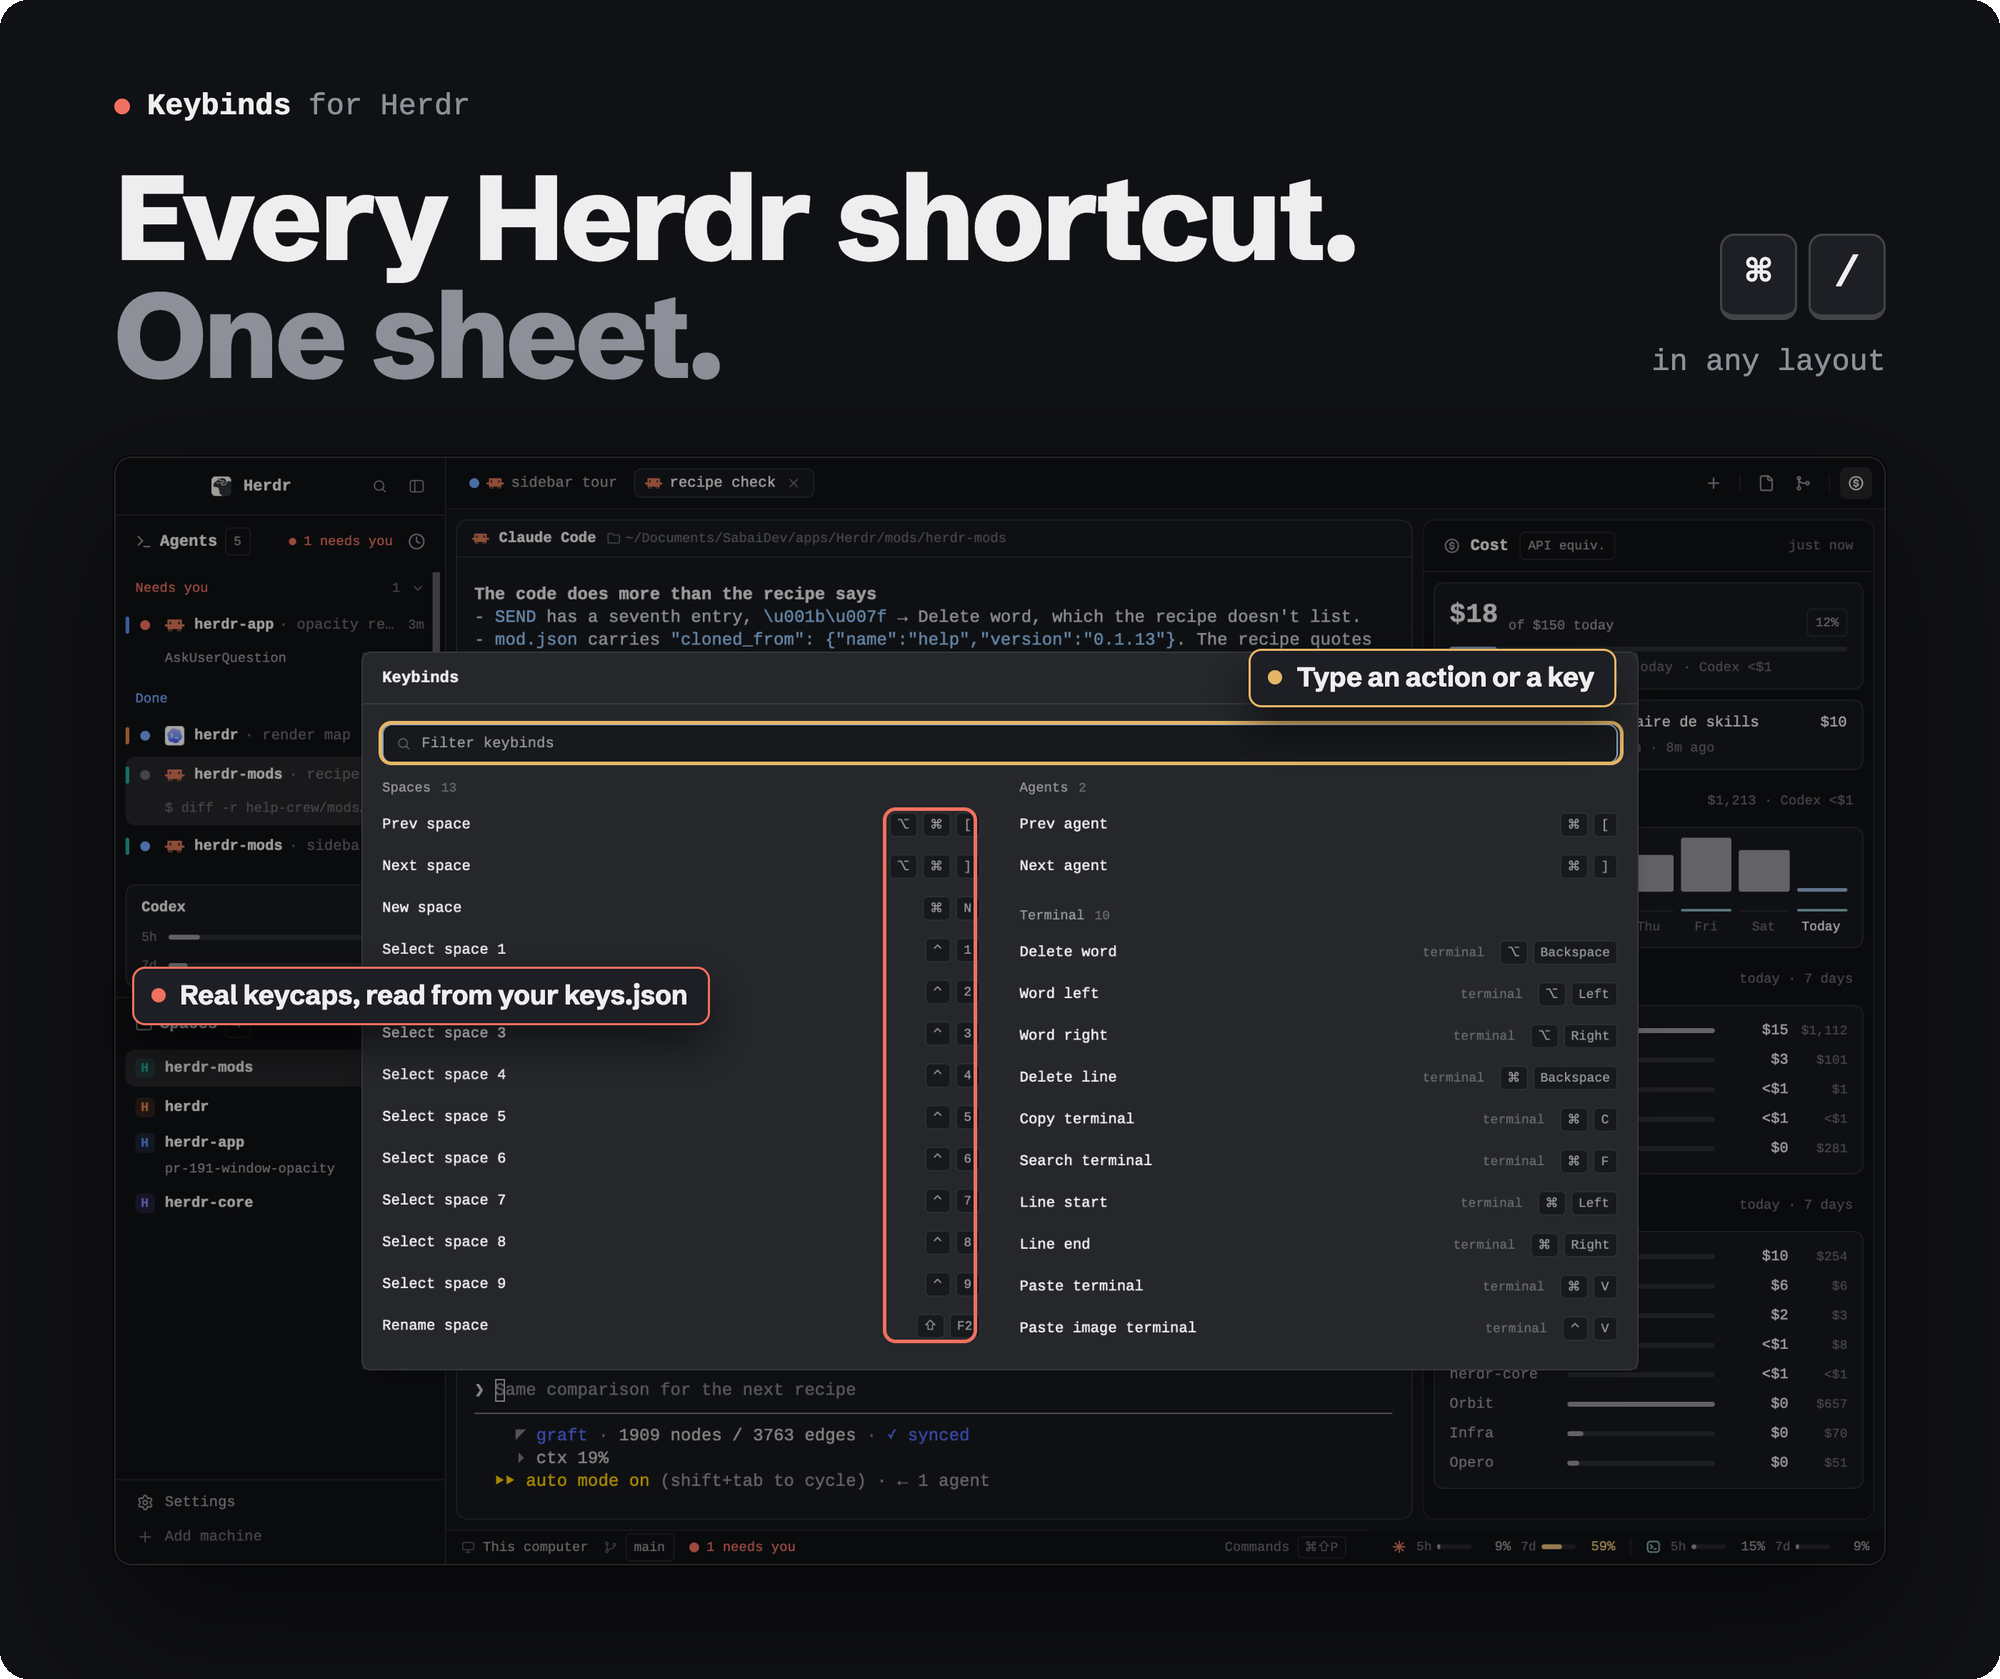
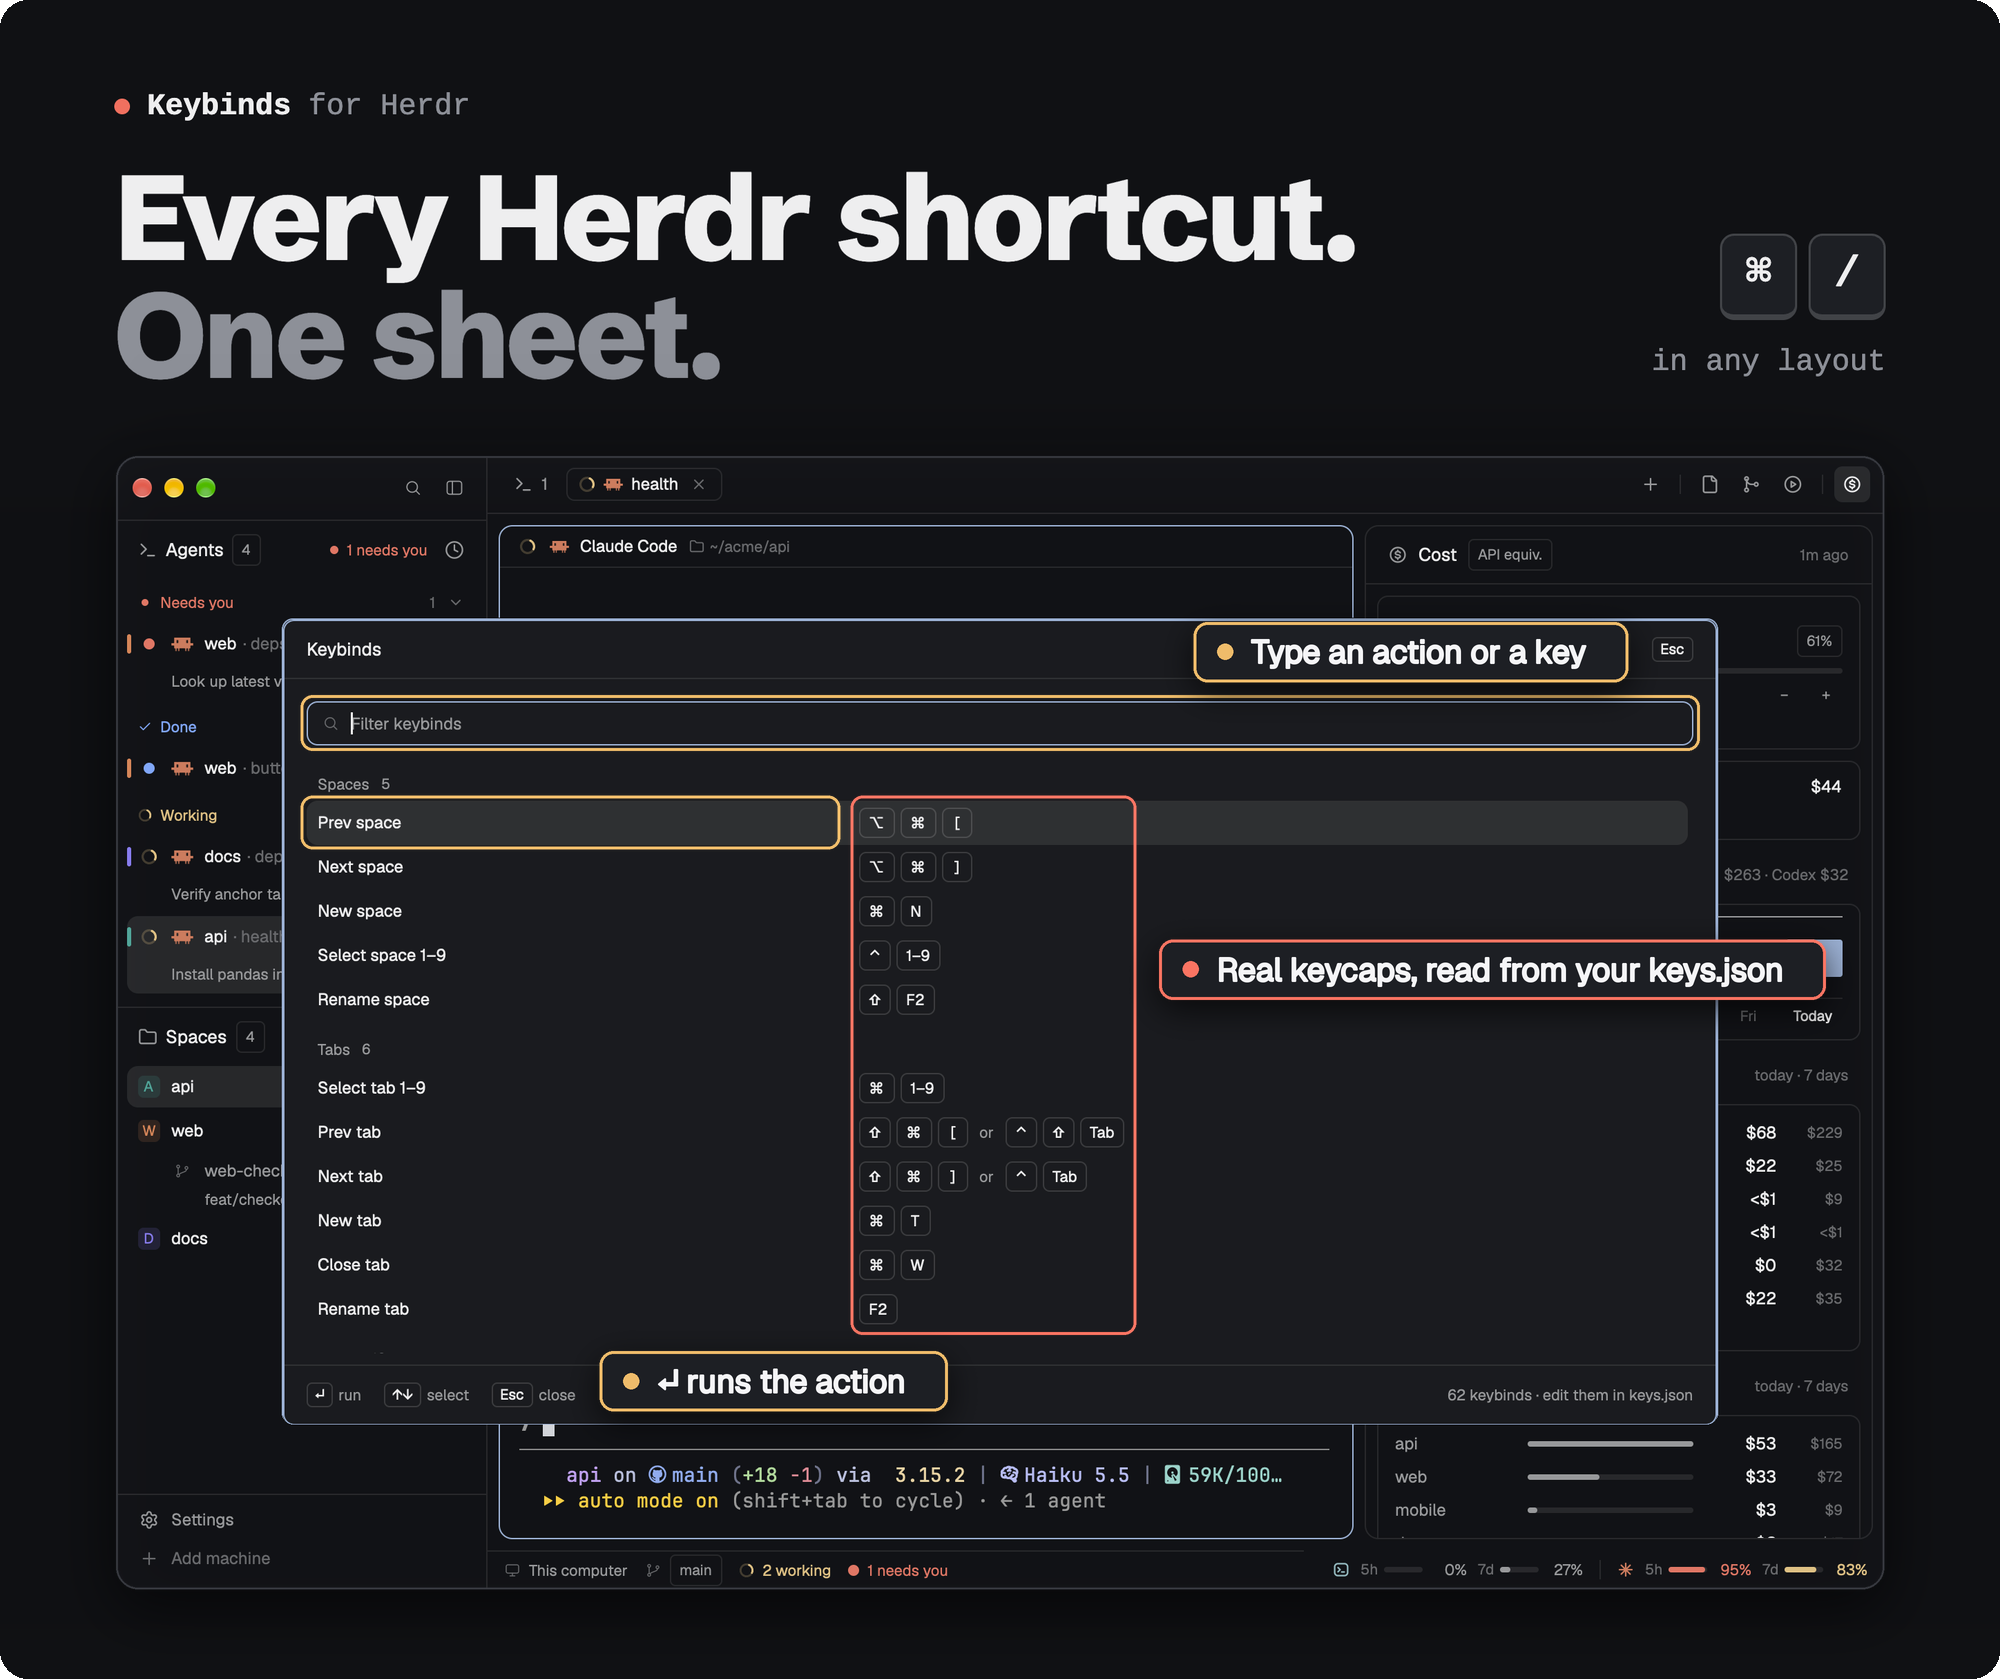
docs: module hero montages rebuilt on the new captures, dialogs over a clean window
The crew, git, help-crew and claude-manager montages keep their header and get the fresh window and redrawn callouts. Four dialog shots and the git panel are laid back over a clean capture: the earlier ones showed a staged prompt behind the dialog. Three alt texts follow.

diff --git a/.trail/learnings/2026-11-14-module-hero-montages-are-rebuilt-from-h4ckm1n.md b/.trail/learnings/2026-11-14-module-hero-montages-are-rebuilt-from-h4ckm1n.md
@@ -1,0 +1,37 @@
+---
+title: "Module hero montages are rebuilt from the old image's header plus a fresh capture, and dialogs are laid back over a clean window"
+author: H4ckm1n
+date: 2026-11-14
+branch: main
+cost: { minutes: 1, tokens: 1981 }
+id: l-a60d0a9b
+scope: repo
+status: active
+src: agent
+touches:
+  - crew/hero.png
+  - git/hero.png
+  - help-crew/hero.png
+  - claude-manager/hero.png
+  - theme-gallery/hero.png
+  - docs/picker.png
+  - docs/keybinds.png
+  - docs/claude-manager.png
+  - docs/theme-gallery.png
+---
+
+## Decided
+The per-module hero images are montages, not captures. They are rebuilt by keeping the old image's header untouched (title, keycaps), replacing the window below it with a fresh capture, and redrawing the callouts: a pill with a dot and an outline around what it names. A dialog capture whose background shows something staged is fixed by cutting the dialog out and laying it over a clean capture of the same window taken in the same minute.
+
+## Tried and ruled out
+- Re-shooting every dialog over a clean background: it needs live agents again, and the Claude quota was at 95%.
+- Rebuilding the whole montage from scratch: the headline font is not on the machine, so the header would not match.
+- Restoring the montages from git between attempts is not a dropped approach: each rebuild must start from the original header.
+
+## Watch out
+- A prompt typed into a demo agent stays readable behind every dialog captured afterwards, and in the Agents list as the agent's last activity. Give demo agents natural tasks only, and clear the terminal first.
+- A toast (a quota warning fired for real) can sit over the window's corner in one capture.
+- Geist ships here as a static Regular with no modifier glyphs: the callout text is thickened with a stroke, and the command key comes from the system font.
+- The theme gallery montage uses a light theme, so it needs its own capture.
+
+In the code: montages `crew/hero.png`, `git/hero.png`, `help-crew/hero.png`, `claude-manager/hero.png`, `theme-gallery/hero.png`; dialog shots `docs/picker.png`, `docs/keybinds.png`, `docs/claude-manager.png`, `docs/theme-gallery.png`; tools in `~/acme/.demo-tools` (`montage.py`, `clean.py`, `process.py`), raw captures in `~/acme/.demo-tools/raw` (`c-*.png` are the recomposed ones), dialog rectangle `(240, 234, 2320, 1402)` in a 2560x1640 capture, montage canvas 2000x1679 with the window at x 116, y 456, width 1768.

diff --git a/crew/README.md b/crew/README.md
@@ -2,7 +2,7 @@
 
 <div align="center">
 
-<img src="hero.png" width="100%" alt="Agents first. The whole window. The Herdr window in the Crew layout: agents grouped by what they need, spaces with branch and color, a Claude Code terminal, the Cost panel and the bottom bar.">
+<img src="hero.png" width="100%" alt="Agents first. The whole window. The Herdr window in the Crew layout: agents grouped by what they need, spaces with branch and uncommitted changes, a Claude Code terminal, the Cost panel and the bottom bar.">
 
 <br>
 

diff --git a/claude-manager/README.md b/claude-manager/README.md
@@ -2,7 +2,7 @@
 
 <div align="center">
 
-<img src="hero.png" width="100%" alt="All of Claude Code. One switch each. The Claude Manager dialog: tabs for skills, commands, agents, MCP, hooks and plugins, a switch on every row, and per-kind counts in the footer.">
+<img src="hero.png" width="100%" alt="All of Claude Code. One switch each. The Claude Manager dialog: tabs for skills, commands, agents, MCP, hooks and plugins, a switch on every row, how many are on per kind, and profiles to save a set of switches.">
 
 <br>
 

diff --git a/help-crew/README.md b/help-crew/README.md
@@ -2,7 +2,7 @@
 
 <div align="center">
 
-<img src="hero.png" width="100%" alt="Every Herdr shortcut. One sheet. The Keybinds dialog: a filter field and every shortcut in two columns, drawn as keycaps.">
+<img src="hero.png" width="100%" alt="Every Herdr shortcut. One sheet. The Keybinds dialog: a filter field, then one line per action with its keys drawn as keycaps.">
 
 <br>
 
